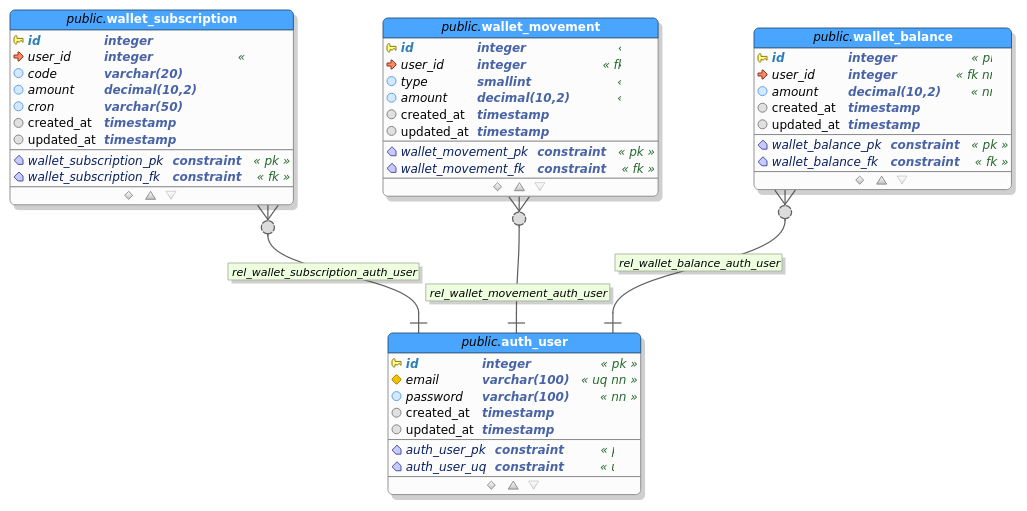
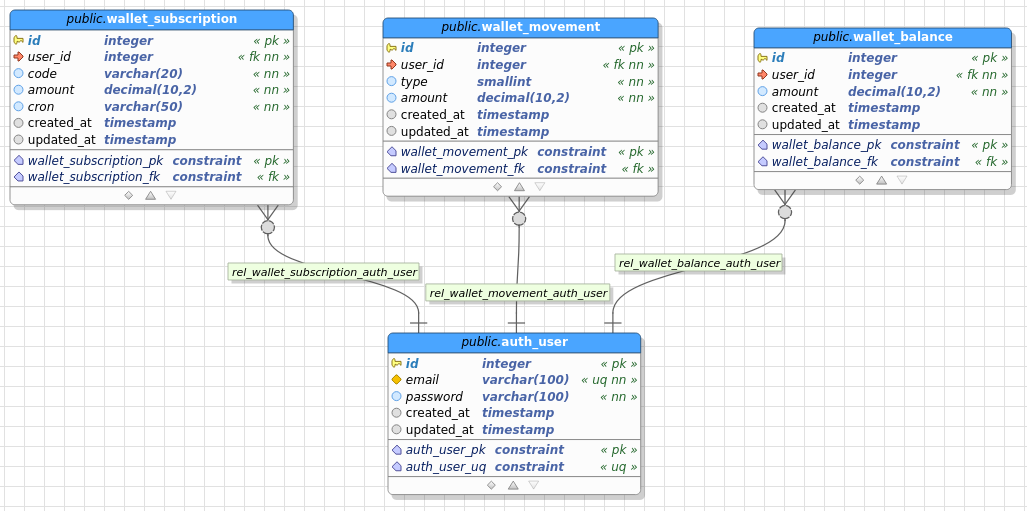
[ADD]: documentación del modelo relacional

diff --git a/README.md b/README.md
@@ -52,3 +52,17 @@ Se trabajaron las siguientes tablas en la base de datos:
 |amount|decimal(10,2)|NO||NULL||
 |created_at|datetime|YES||NULL||
 |updated_at|datetime|YES||NULL||
+
+### auth_user
+
+|Field|Type|Null|Key|Default|Extra|
+|-|-|-|-|-|-|
+|id|int|NO|PRIMARY|NULL|auto_increment|
+|email|varchar(100)|NO||NULL||
+|password|varchar(100)|NO||NULL||
+|created_at|datetime|YES||NULL||
+|updated_at|datetime|YES||NULL||
+
+A continuación se muestra el modelo relacional hecho en ***pgmodeler***:
+
+![Modelo Relacional API_WALLET](./public/imgs/mr.png)
